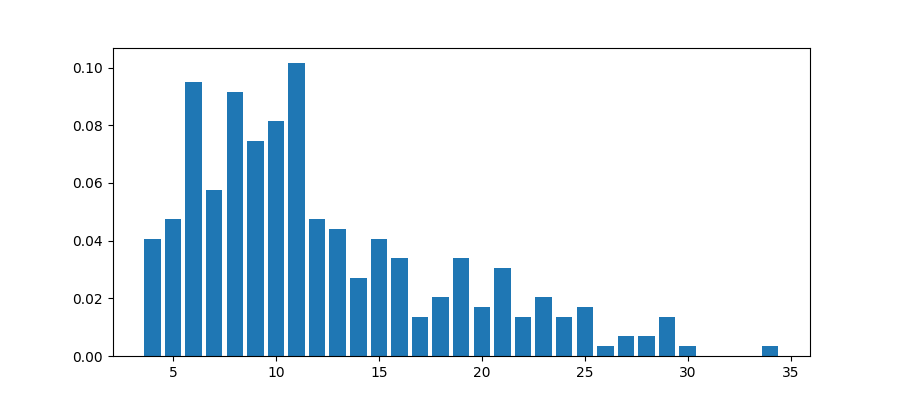
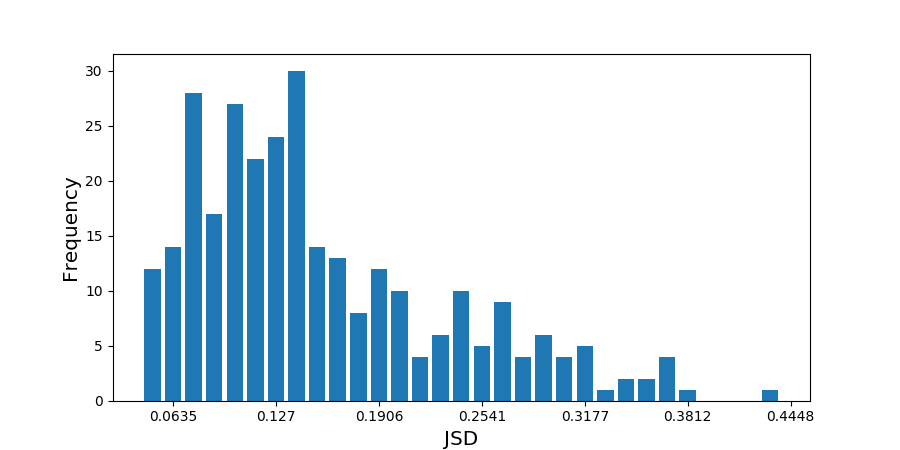
Redraw some figures

diff --git a/RealWorld/ShowOverview.py b/RealWorld/ShowOverview.py
@@ -14,7 +14,7 @@ jsd2 = [0.10912704201369046, 0.19845387518896526, 0.06636123715181373, 0.2296597
 jsd_cen2 = [0.32256760379361726, 0.3810239639317933, 0.28386663245410493, 0.35230754830673466, 0.28189384029941755, 0.2990176428977388, 0.24311679125495256, 0.3692207262558338, 0.34815422147146746, 0.3086180294974303, 0.2190867719629146, 0.2944877706533938, 0.23662774226146438, 0.3309871042516204, 0.43175927961812877, 0.35225026853698854, 0.3506640374165292, 0.25018682290870126, 0.2018944636423843, 0.19958628735050707, 0.2511881602458358, 0.21825640670517163, 0.3277881493146352, 0.23731398417432872, 0.2651893172458749, 0.25987672849498034, 0.1981169965350415, 0.3305360563766058, 0.3013549901242266, 0.28440338403422183, 0.28229077822524445, 0.24597592507096025, 0.2689289289249557, 0.26723613384157013, 0.26051423720450034, 0.4598711221548436, 0.29199940349935083, 0.2251773592006137, 0.22380082229940482, 0.2459725847967571, 0.32849376864464885, 0.1908232890968055, 0.31989906513324307, 0.32991462184432313, 0.31619989409047616, 0.29599589101452783, 0.33142278114623064, 0.2800054579791898, 0.3281902150886128, 0.3242061842283341, 0.28508548123760513, 0.3165442627196493, 0.29439248623540115, 0.280880018188317, 0.4402812786150543, 0.22841474211560983, 0.3752587645937397, 0.250537545003473, 0.236924835544984, 0.143041665652949, 0.19756006910399015, 0.20170043820336014, 0.22989958013678133, 0.20357673808875332, 0.2823378671559504, 0.3020928363649714, 0.18589749572654715, 0.31343670974684334, 0.2337374009942335, 0.30641242467725643, 0.31438688575758694, 0.3663003586378917, 0.26690527231045974, 0.290334571377121, 0.27951540668418196, 0.24195819156521706, 0.2637679765623775, 0.2926738393659329, 0.2649750293539159, 0.2541129910728474, 0.23056036822725479, 0.2420132797701976, 0.26567316524371415, 0.2340119173868865, 0.2763747331629617, 0.34789842920122444, 0.26551206992806975, 0.2970711176190934, 0.2785566291322321, 0.2586713412063521, 0.2996400865965023, 0.25534217370222645, 0.32990086267971536, 0.29399145490637413, 0.2231244809511516, 0.22476818018443814, 0.2606277227700641, 0.2993480878714107, 0.40823548802564064, 0.2993049504345083, 0.2532845811947855, 0.23632946589625708, 0.22561061571619265, 0.2585084890570179, 0.27496667886026543, 0.34172372884629465, 0.4059531282917037, 0.25352943850494, 0.2639042273798796, 0.23665775368308165, 0.24748167113431271, 0.3326341415880758, 0.2725645770366945, 0.4392141997475013, 0.4038023356470809, 0.31048750569369093, 0.24348218113665898, 0.384957098822698, 0.33032023010436645, 0.39303588336177686, 0.48263021642916587, 0.3273285038788882, 0.2373557612566947, 0.33587912337426745, 0.3279458145263568, 0.32961870580003944, 0.32353058572707105, 0.29723614664558573, 0.314573773306344, 0.31546491847300967, 0.2546415492172548, 0.37148036131721385, 0.23773918371790997, 0.483608525101617, 0.37377921589995683, 0.3306034234805854, 0.228728127251514, 0.3060731607994856, 0.2510985946654703, 0.3690531657477507, 0.48782489985381505, 0.3251017352797856, 0.26441317351661925, 0.2735457534362614, 0.32083136906053794, 0.2067776662610242, 0.29932876614239395, 0.3100787206291962, 0.3381825833124489, 0.2873070340995373, 0.2809097066239348, 0.32539989065975544, 0.31901835486820374, 0.36810034229848837, 0.461279311850522, 0.3406900370976521, 0.2977669304371506, 0.38888332935823733, 0.30163929829236397, 0.29795014449340895, 0.3143293142079014, 0.3222078225414255, 0.3479932555176853, 0.2838459039025052, 0.3341721608967952, 0.2673677936147819, 0.21576624497159247, 0.19787098832416017, 0.3454374281763313, 0.5635162595610991, 0.3175222542149238, 0.23327153989203436, 0.3631600106142736, 0.3247156474357096, 0.2783977351364343, 0.2911053203552527, 0.34275769077547374, 0.22744354490629837, 0.36013222144095014, 0.20948668052905065, 0.3490101520797106, 0.41389517210567184, 0.313593195465691, 0.3012626209382832, 0.31509841250581744, 0.2958460720663987, 0.5297636379708939, 0.41831460110854335, 0.37340140825840457, 0.3183886070524964, 0.38578593409197104, 0.3568503201898679, 0.3289843233979286, 0.30033804498720884, 0.3666466847867731, 0.27756569556938576, 0.36339049102974913, 0.4251994186020227, 0.3027721698113297, 0.3432652186084481, 0.36845071579378386, 0.37238149854872704, 0.3828050065781248, 0.40299903562047024, 0.5564011823707898, 0.2546924278653652, 0.2205511567569662, 0.1767057223379845, 0.29518084919190135, 0.41524649597051033, 0.3283295718269389, 0.3681194592514805, 0.2642276396277244, 0.27141927853413195, 0.42043249221226237, 0.2894266103737201, 0.2582858882615837, 0.5309061219680031, 0.5183395148725904, 0.4006075957329193, 0.31241473152230265, 0.36309527715722206, 0.4882660275022516, 0.33616259335970533, 0.39875086456595465, 0.30440144361516097, 0.2763511866235112, 0.37371429068742096, 0.31122460439057276, 0.35103154556098853, 0.3577897417910386, 0.31312545702539646, 0.39897657071109377, 0.3754132364682261, 0.3773481395763152, 0.23687416874791586, 0.3706289330792578, 0.4002461702801223, 0.35419504022933007, 0.3194552245142296, 0.33141371689164567, 0.2591929616454366, 0.39632908392269, 0.4791624005098857, 0.34845325473738253, 0.29658485578957733, 0.38948840867675677, 0.23186295756447142, 0.38467785886427347, 0.36856270830170096, 0.41997928590830397, 0.3247579083704727, 0.19648649613989505, 0.2023672585617845, 0.3277978859848206, 0.2619796590776307, 0.29527056163367327, 0.4784870294746472, 0.49238400870611476, 0.35266179872696435, 0.22205542305373435, 0.2591346092999909, 0.30574588602361186, 0.2650286061401144, 0.3733281490372477, 0.416496182634096, 0.4308051745897152, 0.30864638725476756, 0.24836471629906953, 0.2845769387907223, 0.4580807290515381, 0.31843374833239024, 0.3398212999103301, 0.2867163124246657, 0.30517953181727175, 0.3600599324890424, 0.3998232709171424, 0.3523954929530551, 0.4195980979325788, 0.4678805517495335, 0.2851894156376524, 0.2867093903393213, 0.23387409676311982, 0.2058880416973707, 0.24080934637100154, 0.3151224434372673, 0.39410112509381173, 0.25048108135699526, 0.2903540681717152, 0.2060449267844759, 0.3344124392878762, 0.31623423941184114, 0.5299252671743316, 0.46384824860924007, 0.3811719815869311]
 jsd_equ2 = [0.25842873559530816, 0.48805067009499936, 0.25709300494484005, 0.3148173862245477, 0.20924494184472245, 0.17588695388308817, 0.20951954662560437, 0.40259313296914034, 0.3540844194287478, 0.30757800432596183, 0.23314389942701025, 0.25327278933190916, 0.2705237067073031, 0.2779122560416565, 0.3534049762040451, 0.4577256154564847, 0.241953259847496, 0.23371382333689433, 0.24486434745442245, 0.249291896176284, 0.39828936740058685, 0.3673163147504946, 0.4062098983270415, 0.1834192815051894, 0.19951892560493284, 0.19300366917992406, 0.1939169905283136, 0.2414498886379698, 0.3708552177235844, 0.4660819680838776, 0.16942540473491288, 0.20919778912853226, 0.23178339977027057, 0.16729551794359704, 0.22482996648506684, 0.411537882266304, 0.38215703482017355, 0.22758541058067308, 0.21834207073141854, 0.24712169876683793, 0.15712840100491968, 0.25231038738511946, 0.42201068704056505, 0.37323047815516003, 0.27818772673444897, 0.27626001588117494, 0.24904246577552572, 0.30761498728564585, 0.2730578401038962, 0.3695121977312557, 0.37418626487959344, 0.34955325278631144, 0.34462504130749344, 0.3424846309632886, 0.36005938969390816, 0.3591788629326745, 0.41686961037059983, 0.3875827841505475, 0.14009411093018131, 0.09396016131990524, 0.11425968223847943, 0.10997459502196556, 0.1577862213042825, 0.18267281172568192, 0.3057989180528729, 0.17700004808967856, 0.13939771621467714, 0.19535369339044, 0.21960728587211967, 0.21470901061514197, 0.35995032731305626, 0.4710509420027055, 0.3328126319812385, 0.2528616131200826, 0.2881429299765599, 0.24283027974523613, 0.23558483766211694, 0.3750282374009799, 0.42434724240660654, 0.24234147899906106, 0.2316723975894018, 0.16799544319490367, 0.16188098275526935, 0.19960133588538528, 0.38403222074020743, 0.4130408182103107, 0.2278312300331575, 0.28023567537377714, 0.23507978094325455, 0.18274109568979294, 0.264117870682982, 0.3875522396673211, 0.3836809704596461, 0.2807329562097677, 0.2474256010015049, 0.2921346804779669, 0.4076738285426918, 0.2841237962740574, 0.3959424823146697, 0.39547399216647255, 0.20845930595540713, 0.1853598492150155, 0.23248041893793198, 0.2314659950164859, 0.29057029529865347, 0.44057944276511585, 0.5053710599399757, 0.26524750391468865, 0.22115047725415787, 0.2444708342160002, 0.24491961355395128, 0.2801375467874707, 0.4051691437037655, 0.4112906010411874, 0.41701437878092656, 0.2604753951885367, 0.27228867521520855, 0.309041841634347, 0.29310180867622304, 0.4345864351911541, 0.4294402016650377, 0.2186120371312063, 0.250684296143662, 0.2517556646737932, 0.21203845612041905, 0.23220722157389184, 0.40564024167235335, 0.5032155337924489, 0.28807863684125723, 0.3318069301758309, 0.2613678830953727, 0.28980618404651015, 0.24406132805339453, 0.43907030693459065, 0.4753694294255599, 0.2757210431763112, 0.2813276273975618, 0.24652397957827915, 0.258113719366411, 0.2786468906105526, 0.4327330146911007, 0.43961783329947796, 0.3974343514806759, 0.3167839863517189, 0.3217825861765987, 0.26235556024266404, 0.26333867001476263, 0.4338137502093032, 0.445473191798162, 0.26103107831008976, 0.25227780815406525, 0.2922842782843797, 0.23274997773723108, 0.34970046146677614, 0.39848821249802346, 0.43596789161676597, 0.2994253566058135, 0.27465137207612017, 0.29541314255845263, 0.2438373262581261, 0.27389176052791125, 0.4542056088597296, 0.4837022902645041, 0.32728441438342754, 0.2990354889678587, 0.3082202173342408, 0.25578871202845116, 0.31137758891882544, 0.47790136660176613, 0.4776168006161909, 0.2586452545455152, 0.2665714972785343, 0.3706201535632875, 0.29326037773352137, 0.23484184078010228, 0.4516967530844854, 0.474510772094062, 0.25536964486050673, 0.27443745372804645, 0.2957570302934817, 0.4907403050539318, 0.44608686045721063, 0.4395363956659567, 0.37300683635313736, 0.3134522126340619, 0.2848102363739001, 0.611046183655433, 0.5334576963239014, 0.32949790438302146, 0.4672799531724751, 0.4805115982715944, 0.34030931911582935, 0.3430072559452186, 0.27979647697181753, 0.31218803423094454, 0.29338908325137575, 0.44261317771977277, 0.499271935553576, 0.26292320335757585, 0.30503113799369636, 0.3136031053658368, 0.348770569979263, 0.33428346244073925, 0.45244612386469174, 0.47451077209406195, 0.37573562992033294, 0.3480813343355233, 0.34018399348021755, 0.43216841203059037, 0.35640254278061073, 0.4847920934922871, 0.47553873108935957, 0.39340405550189356, 0.3546645488801481, 0.34812990019219353, 0.35799719334278807, 0.3819443076942334, 0.4681814174080386, 0.4781149103178488, 0.3791423772359014, 0.432534424642914, 0.3277253655945546, 0.48608566536083414, 0.49645417340142944, 0.3252147263384662, 0.32186420659428794, 0.3399460343281493, 0.3503776045304529, 0.4194205511682905, 0.4725827641875835, 0.4810097079732523, 0.38117892363660855, 0.37695376769404554, 0.41283887440806416, 0.3518642413755729, 0.3487395050393055, 0.4860411060815762, 0.5335144228914166, 0.3424186666316232, 0.3228587786952256, 0.2952717012547525, 0.35253284968008924, 0.30841396352183337, 0.4729176016438354, 0.49331648428242103, 0.4150623183922661, 0.34381573130539417, 0.3253496573970535, 0.49614427148892254, 0.4679621671453208, 0.4674727573046344, 0.36752756964724254, 0.23740553957941715, 0.3078433474191715, 0.25991061534051774, 0.28365983758677105, 0.2921462858832754, 0.45955764478229844, 0.4418791555963856, 0.27108250533987865, 0.27820217474489894, 0.3172594803599287, 0.3423100510722035, 0.3413361486458485, 0.5050152153498225, 0.44003481571309533, 0.43770295537306225, 0.3499833218679646, 0.3353627417084397, 0.3888952590097007, 0.4458519918617043, 0.3657795115131028, 0.35446923184794277, 0.3059792115495906, 0.32232373033377126, 0.3103449616352383, 0.30187029172451424, 0.30430454645626137, 0.4433453544449006, 0.5115535418220831, 0.3047516340121733, 0.33452312280436014, 0.24696698137450224, 0.2496664668584581, 0.2960509997082713, 0.44665117903573415, 0.4643764354413655, 0.2858699190680331, 0.26321841723010286, 0.21907041302445673, 0.3180495367151949, 0.30799487830231986, 0.46838460278922994, 0.46309977715801176, 0.3496172562403488]
 
-figure = plt.figure(figsize=(9, 4), dpi=100)
+figure = plt.figure(figsize=(9, 4.5), dpi=100)
 # plt.plot(jsd2, [1] * len(jsd), 'r.')
 # plt.plot(jsd_cen2, [1.5] * len(jsd_cen), 'b.')
 # plt.plot(jsd_equ2, [0.5] * len(jsd_equ), 'g.')
@@ -24,15 +24,18 @@ figure = plt.figure(figsize=(9, 4), dpi=100)
 data = jsd2
 sigma = statistics.stdev(data)
 step = 0.5 * sigma * (len(data) ** -0.2)
-dropped, dist = Divergence.histogram(data, step)
+freq, dist = Divergence.histogram(data, step)
 
 x = []
 y = []
-for item in dist.keys():
+for item in freq.keys():
     x += [item]
-    y += [dist[item]]
+    y += [freq[item]]
 
 plt.bar(x, y)
+plt.xlabel("JSD", fontsize='x-large')
+plt.ylabel("Frequency", fontsize='x-large')
+plt.xticks(list(i * 5 for i in range(1, 8)), list(int(i * 5 * step * 10000) / 10000 for i in range(1, 8)))
 #plt.xlim(0, math.log(2) / step)
 
 figure.savefig("JSD-Dist.png")

diff --git a/RealWorld/ShowDistribution.py b/RealWorld/ShowDistribution.py
@@ -4,9 +4,10 @@ matplotlib.use('Agg')
 import matplotlib.pyplot as plt
 import random
 
-# figure = plt.figure(figsize=(9, 3), dpi=100)
+# figure = plt.figure(figsize=(8, 4.2), dpi=120)
 # plt_cnt = 0
 # for day in (5, 113, 287):
+#     #figure = plt.figure(figsize=(5, 5), dpi=100)
 #     reader = csv.reader(open("Correct/%d.csv" % day, 'r'))
 #     freq = {}
 #     for i in range(24):
@@ -16,8 +17,16 @@ import random
 #
 #     plt_cnt += 1
 #     plt.subplot(1, 3, plt_cnt)
-#     plt.bar(list(range(24)), freq.values(), label="day %d" % day)
-#     plt.legend(loc="upper left")
+#     plt.bar(list(range(24)), freq.values())
+#     plt.title("Day %d" % day)
+#     if 2 == plt_cnt:
+#         plt.xlabel("Hour", fontsize='x-large')
+#     else:
+#         plt.xlabel(' ', fontsize='x-large')
+#     if 1 == plt_cnt:
+#         plt.ylabel("Transaction Volume", fontsize='x-large')
+#     #plt.savefig("SaleDistributions-%d.png" % plt_cnt)
+#     #figure.savefig("SaleDistributions-%d.png" % plt_cnt)
 #
 # plt.savefig("SaleDistributions.png")
 
@@ -35,13 +44,19 @@ for i in freq1.keys():
     bsk = int(freq1[i] / 20)
     freq2[bsk] += 1
 
-figure = plt.figure(figsize=(8, 4), dpi=100)
+figure = plt.figure(figsize=(8, 4.4), dpi=100)
 plt.subplot(1, 2, 1)
 plt.bar(list(range(24)), freq1.values(), label="1st Level")
-plt.legend()
+plt.title("1st Level")
+plt.xlabel("Time Span", fontsize='x-large')
+plt.ylabel("Transaction Volume", fontsize='x-large')
+#plt.legend()
 
 plt.subplot(1, 2, 2)
 plt.bar(list(range(10)), freq2.values(), label="2st Level")
-plt.legend()
+plt.title("2nd Level")
+plt.xlabel("Volume Span", fontsize='x-large')
+plt.ylabel("Frequency", fontsize='x-large')
+#plt.legend()
 
 plt.savefig("HistogramExample.png")
